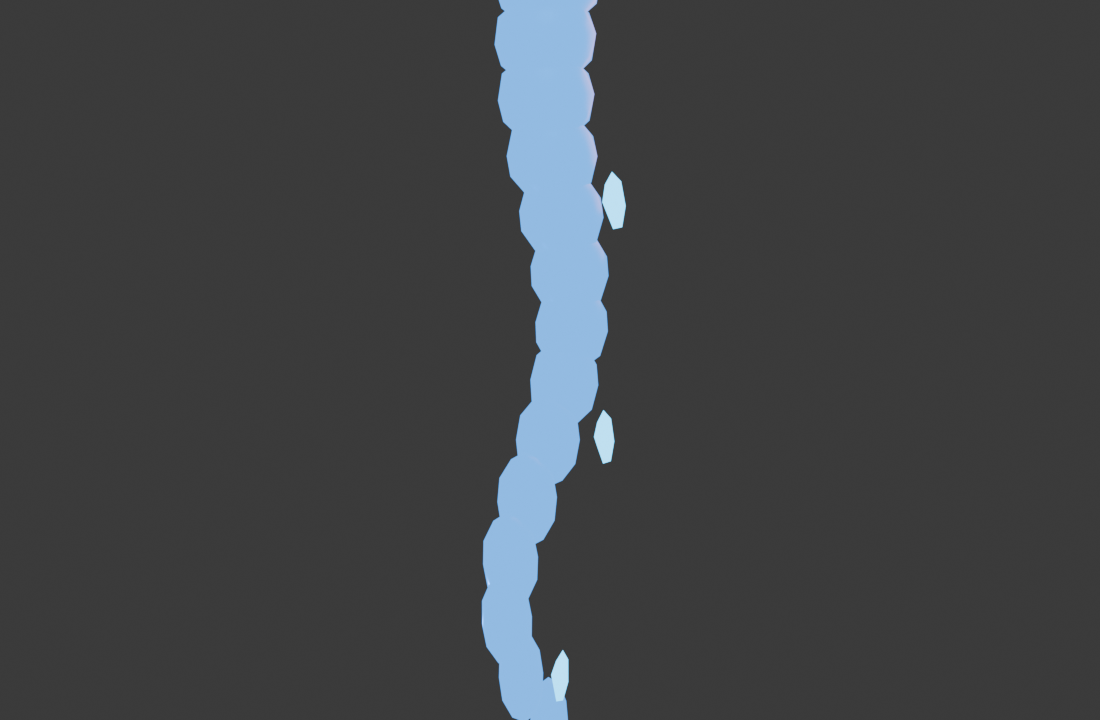
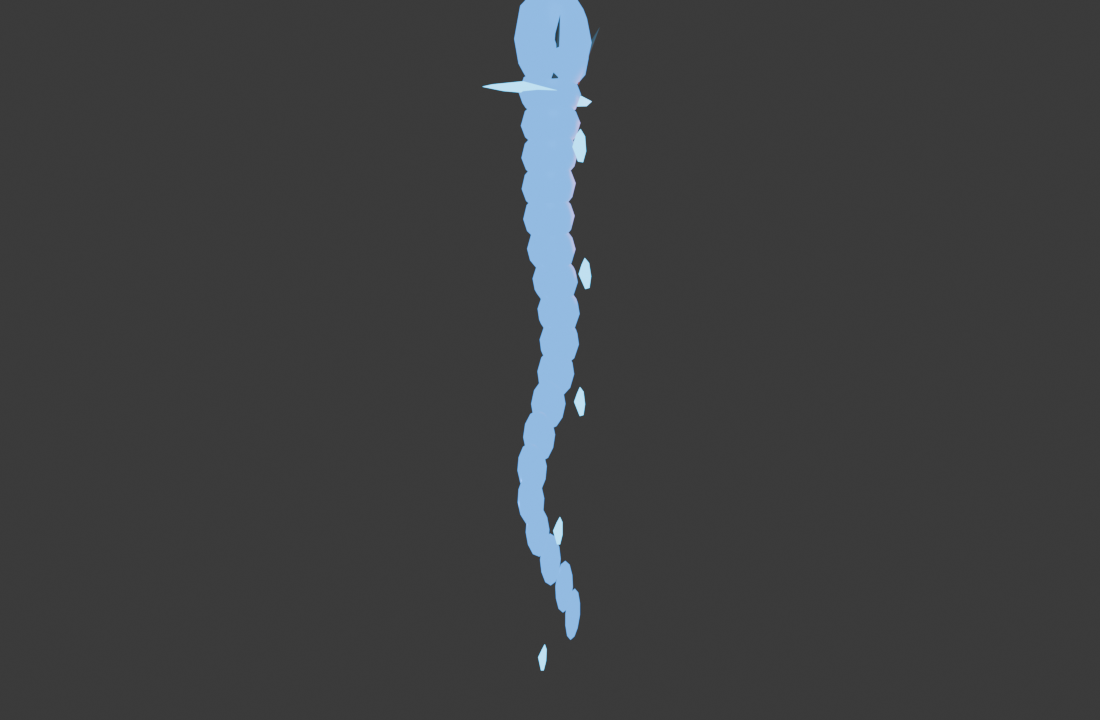
iskairiska25

Changed region(s): [[0.4327, 0.0, 0.5873, 1.0]]

diff --git a/src/lib/ocean/HarpoonSystem.ts b/src/lib/ocean/HarpoonSystem.ts
@@ -60,7 +60,8 @@ export class HarpoonSystem {
       special ? SPECIAL_DAMAGE : STANDARD_DAMAGE,
       now / 1000,
     );
-    const end = hit?.point ?? origin.clone().addScaledVector(shotDirection, RANGE);
+    const shotRange = special ? RANGE * 1.45 : RANGE;
+    const end = hit?.point ?? origin.clone().addScaledVector(shotDirection, shotRange);
     this.addTracer(now, origin.clone().addScaledVector(shotDirection, 0.7), end, special);
     return { fired: true, hit, special };
   }
